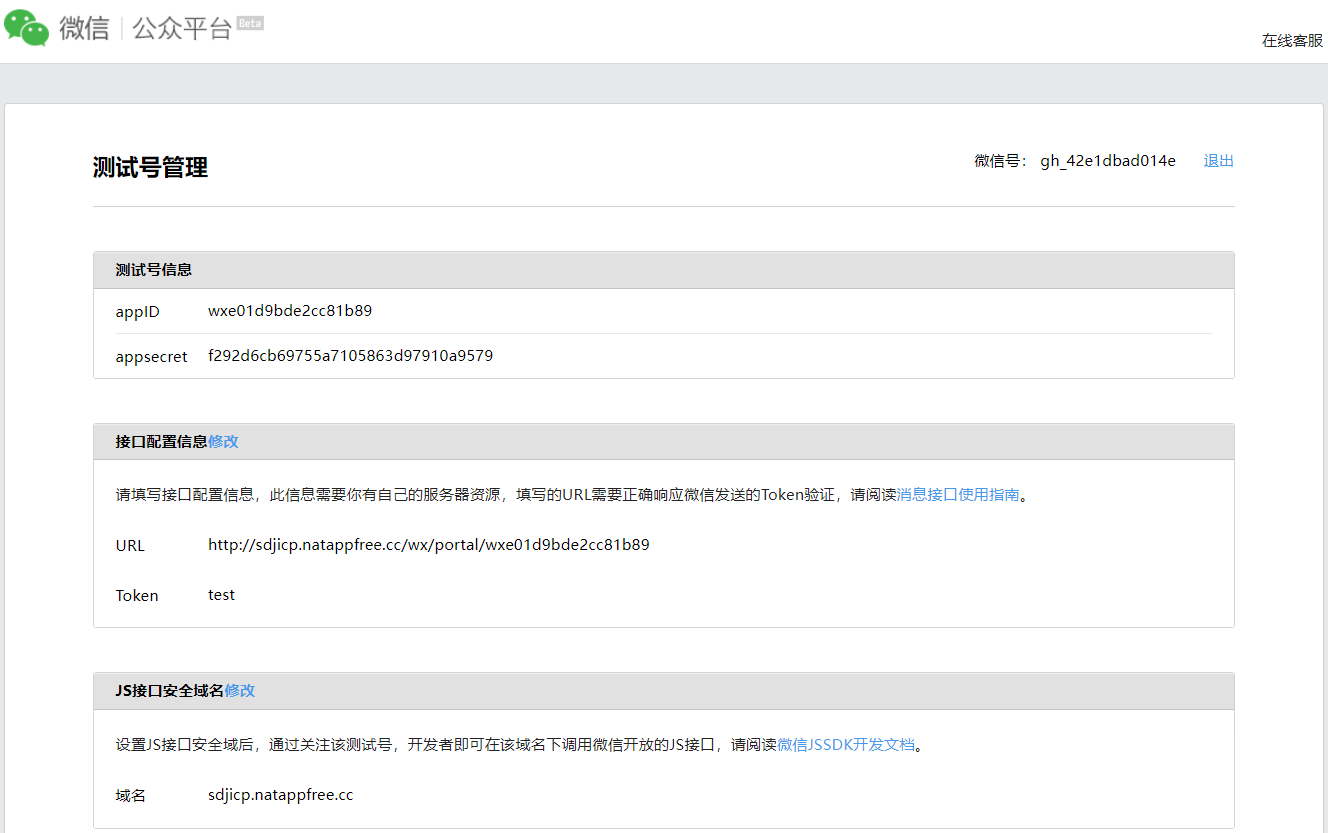
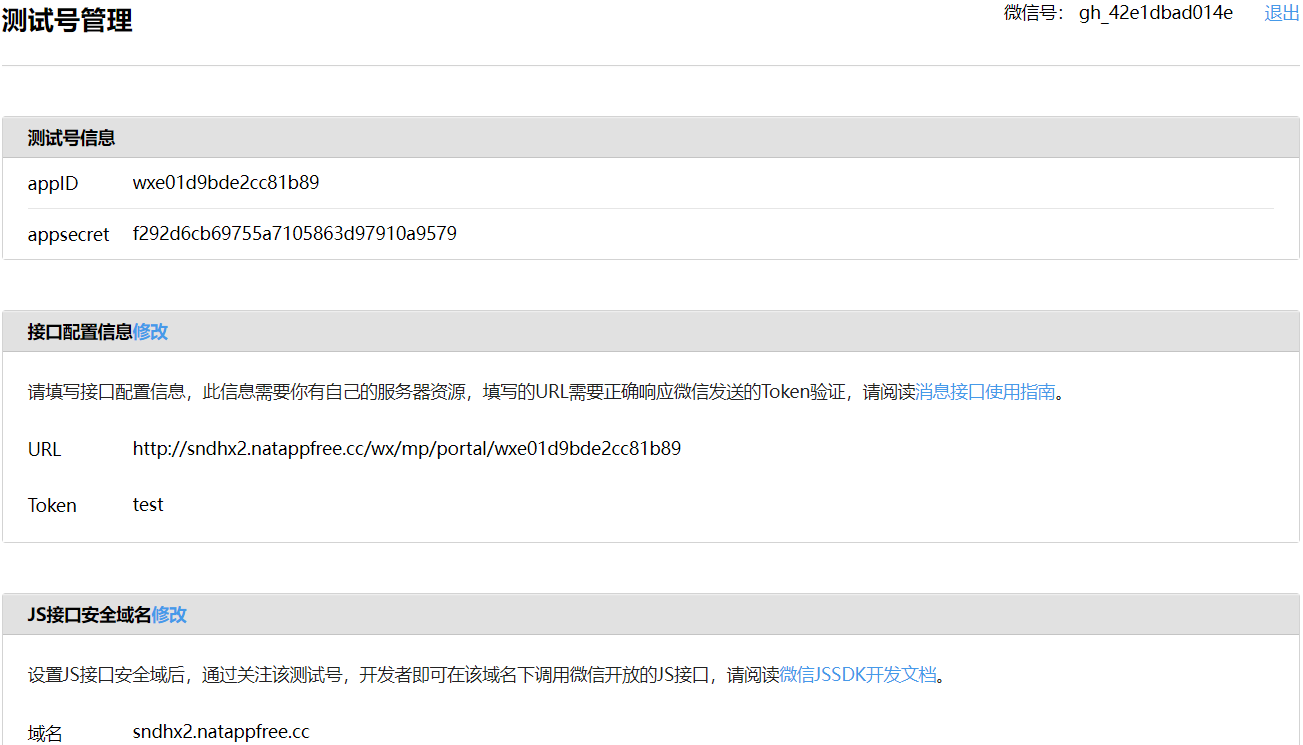
feat 微信公众号-H5授权登录

diff --git a/smallboot-api/service/wx-mp/src/main/java/com/zhengqing/wxmp/api/WxMpOauthController.java b/smallboot-api/service/wx-mp/src/main/java/com/zhengqing/wxmp/api/WxMpOauthController.java
@@ -1,34 +1,55 @@
 package com.zhengqing.wxmp.api;
 
-import com.zhengqing.common.base.constant.ServiceConstant;
+import cn.hutool.json.JSONUtil;
+import com.zhengqing.common.base.constant.BaseConstant;
 import io.swagger.annotations.Api;
 import io.swagger.annotations.ApiOperation;
-import lombok.AllArgsConstructor;
+import lombok.RequiredArgsConstructor;
+import lombok.SneakyThrows;
+import lombok.extern.slf4j.Slf4j;
 import me.chanjar.weixin.common.api.WxConsts;
+import me.chanjar.weixin.common.bean.WxOAuth2UserInfo;
+import me.chanjar.weixin.common.bean.oauth2.WxOAuth2AccessToken;
+import me.chanjar.weixin.common.service.WxOAuth2Service;
 import me.chanjar.weixin.mp.api.WxMpService;
-import org.springframework.web.bind.annotation.GetMapping;
-import org.springframework.web.bind.annotation.RequestMapping;
-import org.springframework.web.bind.annotation.RequestParam;
-import org.springframework.web.bind.annotation.RestController;
+import org.springframework.beans.factory.annotation.Value;
+import org.springframework.web.bind.annotation.*;
 
 /**
  * <p> 微信公众号-授权 </p>
  *
  * @author zhengqingya
- * @description
+ * @description 记得返回值放行处理 {@link BaseConstant#RETURN_VALUE_HANDLER_EXCLUDE_API_LIST}
  * @date 2023/3/16 16:51
  */
-@AllArgsConstructor
+@Slf4j
 @RestController
-@RequestMapping(ServiceConstant.SERVICE_API_PREFIX_WEB_WXMP + "/oauth")
+@RequiredArgsConstructor
+@RequestMapping("/wx/mp/oauth")
 @Api(tags = {"微信公众号-授权"})
 public class WxMpOauthController {
     private final WxMpService wxMpService;
 
+    @Value("${smallboot.wx-mp-domain}")
+    private String wxMpDomain;
+
     @GetMapping("/getAuthorizationUrl")
     @ApiOperation("获取授权URL")
     public String getAuthorizationUrl(@RequestParam String appId) {
-        return this.wxMpService.switchoverTo(appId).getOAuth2Service().buildAuthorizationUrl("127.0.0.1:8080", WxConsts.OAuth2Scope.SNSAPI_USERINFO, "STATE");
+        return this.wxMpService.switchoverTo(appId).getOAuth2Service().buildAuthorizationUrl(this.wxMpDomain + "/wx/mp/oauth/callback/" + appId, WxConsts.OAuth2Scope.SNSAPI_USERINFO, "STATE");
+    }
+
+    @SneakyThrows(Exception.class)
+    @GetMapping("/callback/{appId}")
+    @ApiOperation("回调-授权登录同意")
+    public String callback(@PathVariable String appId, @RequestParam String code) {
+        WxOAuth2Service oAuth2Service = this.wxMpService.switchoverTo(appId).getOAuth2Service();
+        WxOAuth2AccessToken wxOAuth2AccessToken = oAuth2Service.getAccessToken(code);
+//        String accessToken = wxOAuth2AccessToken.getAccessToken();
+//        String openId = wxOAuth2AccessToken.getOpenId();
+        WxOAuth2UserInfo userInfo = oAuth2Service.getUserInfo(wxOAuth2AccessToken, "zh_CN");
+        log.info("[微信公众号] 授权回调 用户信息：[{}]", JSONUtil.toJsonStr(userInfo));
+        return "OK";
     }
 
 }

diff --git a/smallboot-api/service/wx-mp/src/main/java/com/zhengqing/wxmp/api/WxMpPortalController.java b/smallboot-api/service/wx-mp/src/main/java/com/zhengqing/wxmp/api/WxMpPortalController.java
@@ -1,6 +1,7 @@
 package com.zhengqing.wxmp.api;
 
 import com.zhengqing.common.base.constant.BaseConstant;
+import com.zhengqing.common.base.constant.ServiceConstant;
 import io.swagger.annotations.Api;
 import io.swagger.annotations.ApiOperation;
 import lombok.AllArgsConstructor;
@@ -23,7 +24,7 @@ import org.springframework.web.bind.annotation.*;
 @Slf4j
 @AllArgsConstructor
 @RestController
-@RequestMapping("/wx/portal/{appid}")
+@RequestMapping(ServiceConstant.SERVICE_API_PREFIX_WX_MP + "/{appid}")
 @Api(tags = {"微信公众号-接入"})
 public class WxMpPortalController {
     private final WxMpService wxService;

diff --git a/smallboot-api/service/wx-mp/src/main/java/com/zhengqing/wxmp/model/vo/WxMpAccountPageVO.java b/smallboot-api/service/wx-mp/src/main/java/com/zhengqing/wxmp/model/vo/WxMpAccountPageVO.java
@@ -1,5 +1,6 @@
 package com.zhengqing.wxmp.model.vo;
 
+import com.zhengqing.common.base.constant.ServiceConstant;
 import com.zhengqing.common.base.model.vo.BaseVO;
 import com.zhengqing.wxmp.enums.WxMpAccountTypeEnum;
 import io.swagger.annotations.ApiModel;
@@ -63,7 +64,7 @@ public class WxMpAccountPageVO extends BaseVO {
 
     public void handleData() {
         this.typeName = WxMpAccountTypeEnum.getEnum(this.type).getDesc();
-        this.url = "/wx/portal/" + this.appId;
+        this.url = ServiceConstant.SERVICE_API_PREFIX_WX_MP + "/" + this.appId;
     }
 
 }

diff --git a/smallboot-api/common/base/src/main/java/com/zhengqing/common/base/constant/BaseConstant.java b/smallboot-api/common/base/src/main/java/com/zhengqing/common/base/constant/BaseConstant.java
@@ -57,8 +57,8 @@ public interface BaseConstant {
             "*:/rpc/client/**/*",
             "POST:/oauth/token",
             "POST:/auth/oauth/token",
-            "*:/wx/portal/*",
-            "*:/wx/callback/*"
+            "*:" + ServiceConstant.SERVICE_API_PREFIX_WX_MP + "/*",
+            "*:/wx/pay/callback/*"
     );
 
 }

diff --git a/smallboot-api/common/base/src/main/java/com/zhengqing/common/base/constant/ServiceConstant.java b/smallboot-api/common/base/src/main/java/com/zhengqing/common/base/constant/ServiceConstant.java
@@ -30,5 +30,10 @@ public interface ServiceConstant {
     String SERVICE_API_PREFIX_MINI_UMS = SERVICE_API_PREFIX_MINI + "/ums";
     String SERVICE_API_PREFIX_WEB_UMS = SERVICE_API_PREFIX_WEB + "/ums";
 
+    /**
+     * 微信公众号-接入
+     */
+    String SERVICE_API_PREFIX_WX_MP = "/wx/mp/portal";
+
 
 }

diff --git a/smallboot-api/doc/微信公众号/04-H5授权登录.md b/smallboot-api/doc/微信公众号/04-H5授权登录.md
@@ -1,0 +1,49 @@
+# H5授权登录
+
+> https://developers.weixin.qq.com/doc/offiaccount/OA_Web_Apps/Wechat_webpage_authorization.html
+
+网页授权流程分为四步：
+
+1. 引导用户进入授权页面同意授权，获取code
+2. 通过code换取网页授权access_token（与基础支持中的access_token不同）
+3. 如果需要，开发者可以刷新网页授权access_token，避免过期
+4. 通过网页授权access_token和openid获取用户基本信息（支持UnionID机制）
+
+关于特殊场景下的静默授权
+
+1. snsapi_base为scope的网页授权，静默授权，用户无感知；
+2. 对于已关注公众号的用户，如果用户从公众号的会话或者自定义菜单进入本公众号的网页授权页，即使是scope为snsapi_userinfo（原本：需要用户手动同意），也是静默授权，用户无感知。
+
+### 一、准备
+
+> 测试号
+
+`网页服务` -> `网页帐号`
+
+![img.png](images/oauth2-01.png)
+![img.png](images/oauth2-02.png)
+
+### 二、开发
+
+#### 1、授权链接
+
+https://open.weixin.qq.com/connect/oauth2/authorize?appid=APPID&redirect_uri=REDIRECT_URI&response_type=code&scope=SCOPE&state=STATE#wechat_redirect
+
+>
+eg: https://open.weixin.qq.com/connect/oauth2/authorize?appid=wxe01d9bde2cc81b89&redirect_uri=http%3A%2F%2Fsndhx2.natappfree.cc%2Fwx%2Fmp%2Foauth%2Fcallback%2Fwxe01d9bde2cc81b89&response_type=code&scope=snsapi_userinfo&state=STATE&connect_redirect=1#wechat_redirect
+
+#### 2、回调处理
+
+```
+WxOAuth2Service oAuth2Service = this.wxMpService.switchoverTo(appId).getOAuth2Service();
+WxOAuth2AccessToken wxOAuth2AccessToken = oAuth2Service.getAccessToken(code);
+//        String accessToken = wxOAuth2AccessToken.getAccessToken();
+//        String openId = wxOAuth2AccessToken.getOpenId();
+WxOAuth2UserInfo userInfo = oAuth2Service.getUserInfo(wxOAuth2AccessToken, "zh_CN");
+log.info("[微信公众号] 授权回调 用户信息：[{}]", JSONUtil.toJsonStr(userInfo));
+```
+
+#### 3、业务处理
+
+拿到用户信息后，就开始做自己系统的业务逻辑处理...
+

diff --git a/smallboot-api/doc/微信公众号/02-测试号.md b/smallboot-api/doc/微信公众号/02-测试号.md
@@ -28,7 +28,7 @@ https://mp.weixin.qq.com
 AppID                    -> wxe01d9bde2cc81b89
 AppSecret                -> f292d6cb69755a7105863d97910a9579
 Token                    -> test
-URL                      -> http://{域名}/wx/portal/{appId}     eg: http://sdjicp.natappfree.cc/wx/portal/wxe01d9bde2cc81b89
+URL                      -> http://{域名}/wx/mp/portal/{appId}     eg: http://sndhx2.natappfree.cc/wx/mp/portal/wxe01d9bde2cc81b89
 EncodingAESKey 或 AesKey -> 4J9GOBZ4VTElUFm0EvRDV6aJu5spvYXGkn1RJela56U
 消息加解密方式             -> 明文模式
 ```

diff --git a/smallboot-api/doc/微信公众号/03-代理.md b/smallboot-api/doc/微信公众号/03-代理.md
@@ -9,4 +9,4 @@ https://natapp.cn
 natapp -authtoken=xxx
 ```
 
-![img.png](images/img.png)
+![img.png](images/natapp.png)
